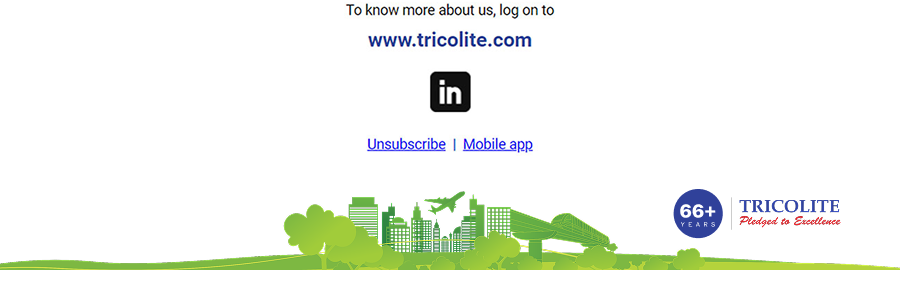
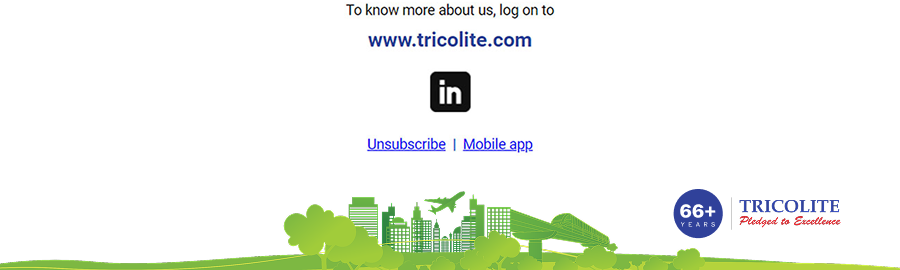
Refresh footer and update email body padding

diff --git a/Tricolite opt 1/font-option-1-ibm-plex-serif.html b/Tricolite opt 1/font-option-1-ibm-plex-serif.html
@@ -6,7 +6,7 @@
 <table role="presentation" width="600" style="width:100%;max-width:600px;background:#ffffff" bgcolor="#ffffff">
 <tr><td><img src="assets/header.png" width="600" alt="Tricolite" style="width:100%;max-width:600px;height:auto"></td></tr>
 <tr><td><video width="600" autoplay muted loop playsinline style="display:block;width:100%;max-width:600px;height:auto"><source src="assets/Birthday%20Emailer%20Cover.mp4" type="video/mp4">Happy Birthday</video></td></tr>
-<tr><td class="copy" style="padding:38px 48px 40px;color:#333333;font-family:Roboto,Arial,sans-serif;font-size:16px;line-height:1.65">
+<tr><td class="copy" style="padding:25px 35px;color:#333333;font-family:Roboto,Arial,sans-serif;font-size:16px;line-height:1.65">
 <p style="margin:0 0 10px;font-family:'IBM Plex Serif',Georgia,serif;font-size:27px;line-height:1.3;font-style:italic;font-weight:500;color:#05124a">Dear Meera,</p>
 <p style="margin:0 0 18px">On your special day, we extend our warmest wishes for a very Happy Birthday.</p>
 <p style="margin:0 0 18px">We truly value our association with you and appreciate the trust and partnership we share. May the year ahead bring you continued success, happiness, and many rewarding moments.</p>
@@ -15,6 +15,7 @@
 </td></tr>
 <tr><td><img src="assets/Footer2.png" width="600" alt="" style="width:100%;max-width:600px;height:auto"></td></tr>
 </table></td></tr></table></body></html>
+
 
 
 

diff --git a/Tricolite opt 1/font-option-3-pinyon-script.html b/Tricolite opt 1/font-option-3-pinyon-script.html
@@ -6,7 +6,7 @@
 <table role="presentation" width="600" style="width:100%;max-width:600px;background:#ffffff" bgcolor="#ffffff">
 <tr><td><img src="assets/header.png" width="600" alt="Tricolite" style="width:100%;max-width:600px;height:auto"></td></tr>
 <tr><td><video width="600" autoplay muted loop playsinline style="display:block;width:100%;max-width:600px;height:auto"><source src="assets/Birthday%20Emailer%20Cover.mp4" type="video/mp4">Happy Birthday</video></td></tr>
-<tr><td class="copy" style="padding:38px 48px 40px;color:#333333;font-family:Roboto,Arial,sans-serif;font-size:16px;line-height:1.65">
+<tr><td class="copy" style="padding:25px 35px;color:#333333;font-family:Roboto,Arial,sans-serif;font-size:16px;line-height:1.65">
 <p style="margin:0 0 10px;font-family:'Pinyon Script','Brush Script MT',cursive;font-size:35px;line-height:1.15;font-weight:400;color:#05124a">Dear Meera,</p>
 <p style="margin:0 0 18px">On your special day, we extend our warmest wishes for a very Happy Birthday.</p>
 <p style="margin:0 0 18px">We truly value our association with you and appreciate the trust and partnership we share. May the year ahead bring you continued success, happiness, and many rewarding moments.</p>
@@ -15,6 +15,7 @@
 </td></tr>
 <tr><td><img src="assets/Footer2.png" width="600" alt="" style="width:100%;max-width:600px;height:auto"></td></tr>
 </table></td></tr></table></body></html>
+
 
 
 

diff --git a/Tricolite opt 1/font-option-5-roboto.html b/Tricolite opt 1/font-option-5-roboto.html
@@ -6,7 +6,7 @@
 <table role="presentation" width="600" style="width:100%;max-width:600px;background:#ffffff" bgcolor="#ffffff">
 <tr><td><img src="assets/header.png" width="600" alt="Tricolite" style="width:100%;max-width:600px;height:auto"></td></tr>
 <tr><td><video width="600" autoplay muted loop playsinline style="display:block;width:100%;max-width:600px;height:auto"><source src="assets/Birthday%20Emailer%20Cover.mp4" type="video/mp4">Happy Birthday</video></td></tr>
-<tr><td class="copy" style="padding:38px 48px 40px;color:#333333;font-family:Roboto,Arial,sans-serif;font-size:16px;line-height:1.65">
+<tr><td class="copy" style="padding:25px 35px;color:#333333;font-family:Roboto,Arial,sans-serif;font-size:16px;line-height:1.65">
 <p style="margin:0 0 10px;font-family:Roboto,Arial,sans-serif;font-size:16px;line-height:1.65;font-style:normal;font-weight:400;color:#05124a">Dear Meera,</p>
 <p style="margin:0 0 18px">On your special day, we extend our warmest wishes for a very Happy Birthday.</p>
 <p style="margin:0 0 18px">We truly value our association with you and appreciate the trust and partnership we share. May the year ahead bring you continued success, happiness, and many rewarding moments.</p>
@@ -15,6 +15,7 @@
 </td></tr>
 <tr><td><img src="assets/Footer2.png" width="600" alt="" style="width:100%;max-width:600px;height:auto"></td></tr>
 </table></td></tr></table></body></html>
+
 
 
 

diff --git a/Tricolite opt 1/font-option-2-rouge-script.html b/Tricolite opt 1/font-option-2-rouge-script.html
@@ -6,7 +6,7 @@
 <table role="presentation" width="600" style="width:100%;max-width:600px;background:#ffffff" bgcolor="#ffffff">
 <tr><td><img src="assets/header.png" width="600" alt="Tricolite" style="width:100%;max-width:600px;height:auto"></td></tr>
 <tr><td><video width="600" autoplay muted loop playsinline style="display:block;width:100%;max-width:600px;height:auto"><source src="assets/Birthday%20Emailer%20Cover.mp4" type="video/mp4">Happy Birthday</video></td></tr>
-<tr><td class="copy" style="padding:38px 48px 40px;color:#333333;font-family:Roboto,Arial,sans-serif;font-size:16px;line-height:1.65">
+<tr><td class="copy" style="padding:25px 35px;color:#333333;font-family:Roboto,Arial,sans-serif;font-size:16px;line-height:1.65">
 <p style="margin:0 0 10px;font-family:'Rouge Script','Brush Script MT',cursive;font-size:34px;line-height:1.15;font-weight:400;color:#05124a">Dear Meera,</p>
 <p style="margin:0 0 18px">On your special day, we extend our warmest wishes for a very Happy Birthday.</p>
 <p style="margin:0 0 18px">We truly value our association with you and appreciate the trust and partnership we share. May the year ahead bring you continued success, happiness, and many rewarding moments.</p>
@@ -15,6 +15,7 @@
 </td></tr>
 <tr><td><img src="assets/Footer2.png" width="600" alt="" style="width:100%;max-width:600px;height:auto"></td></tr>
 </table></td></tr></table></body></html>
+
 
 
 

diff --git a/Tricolite opt 1/font-option-4-tangerine.html b/Tricolite opt 1/font-option-4-tangerine.html
@@ -6,7 +6,7 @@
 <table role="presentation" width="600" style="width:100%;max-width:600px;background:#ffffff" bgcolor="#ffffff">
 <tr><td><img src="assets/header.png" width="600" alt="Tricolite" style="width:100%;max-width:600px;height:auto"></td></tr>
 <tr><td><video width="600" autoplay muted loop playsinline style="display:block;width:100%;max-width:600px;height:auto"><source src="assets/Birthday%20Emailer%20Cover.mp4" type="video/mp4">Happy Birthday</video></td></tr>
-<tr><td class="copy" style="padding:38px 48px 40px;color:#333333;font-family:Roboto,Arial,sans-serif;font-size:16px;line-height:1.65">
+<tr><td class="copy" style="padding:25px 35px;color:#333333;font-family:Roboto,Arial,sans-serif;font-size:16px;line-height:1.65">
 <p style="margin:0 0 10px;font-family:Tangerine,'Brush Script MT',cursive;font-size:36px;line-height:1.15;font-weight:400;color:#05124a">Dear Meera,</p>
 <p style="margin:0 0 18px">On your special day, we extend our warmest wishes for a very Happy Birthday.</p>
 <p style="margin:0 0 18px">We truly value our association with you and appreciate the trust and partnership we share. May the year ahead bring you continued success, happiness, and many rewarding moments.</p>
@@ -15,6 +15,7 @@
 </td></tr>
 <tr><td><img src="assets/Footer2.png" width="600" alt="" style="width:100%;max-width:600px;height:auto"></td></tr>
 </table></td></tr></table></body></html>
+
 
 
 
